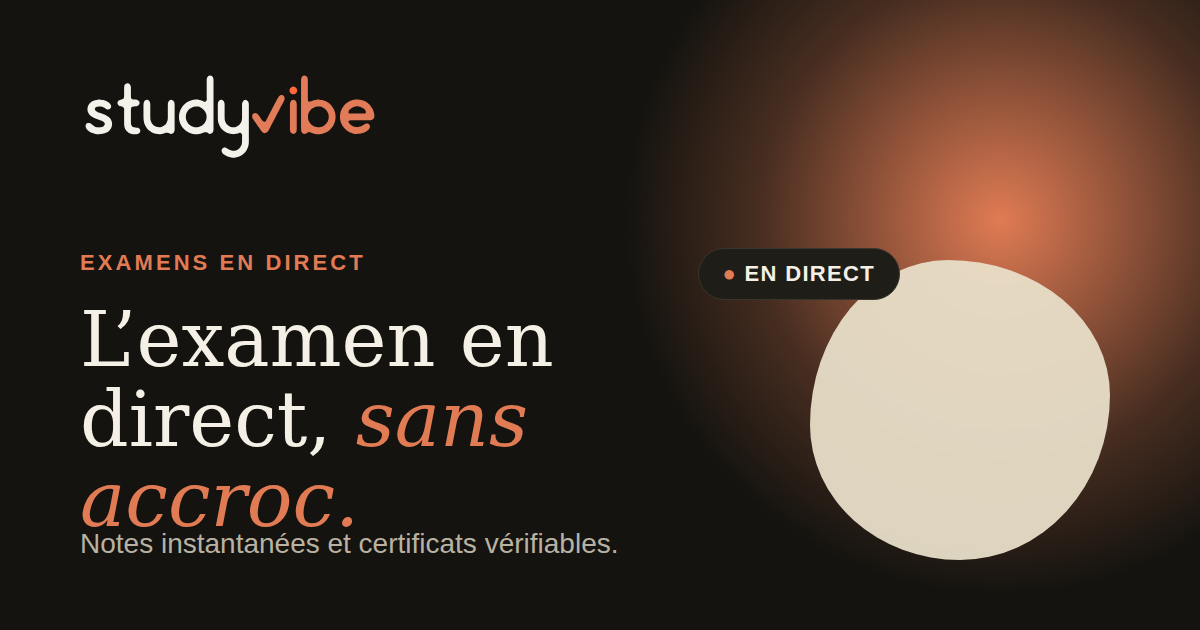
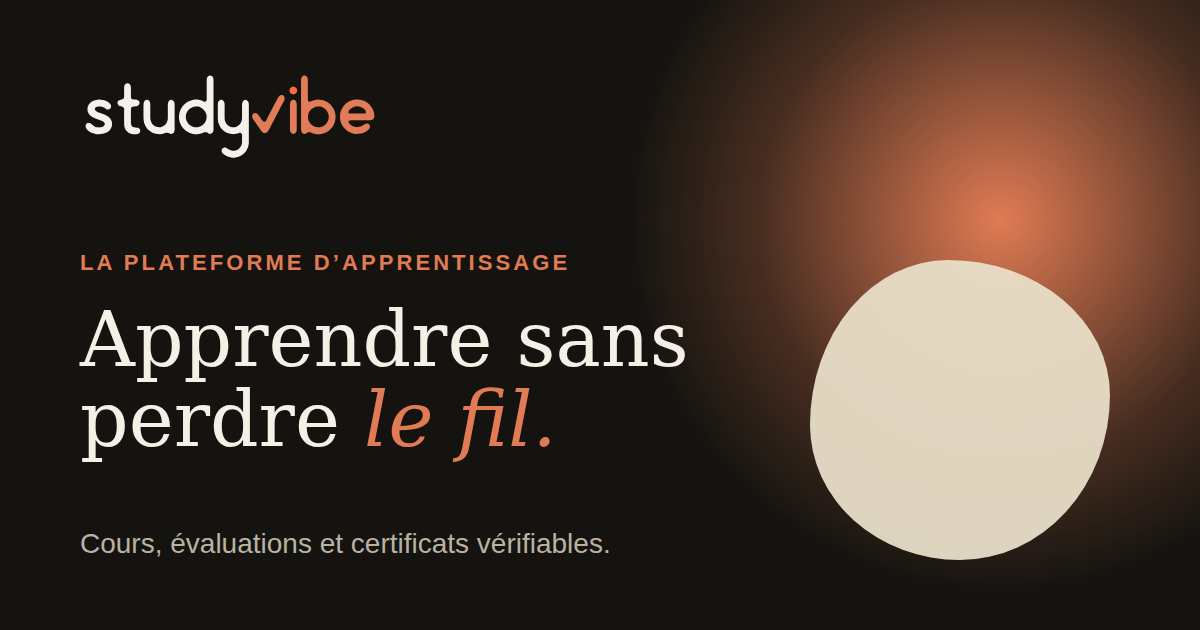
feat: landing page presents StudyVibe as a learning platform (courses, assignments, assessments, certificates) instead of a live-exam product: new headline, tagline, descriptions, share card and app manifest

Changed region(s): [[0.0617, 0.4825, 0.5858, 0.8746], [0.0617, 0.3921, 0.4933, 0.4524], [0.5858, 0.3921, 0.7708, 0.4825]]

diff --git a/index.php b/index.php
@@ -40,19 +40,19 @@ Analytics::captureSource();      // ?src=qr-campus-1 is remembered for the sessi
 Analytics::hit('view:landing');
 $T = [
 'fr' => [
- 'title' => 'StudyVibe — L’examen en direct, sans accroc',
- 'desc' => "Toute la promo démarre à la même seconde, les notes arrivent sans correction à la main, et chaque réussite devient un certificat vérifiable. Pour les universités et les centres de formation.",
- 'nav_eval' => 'Évaluations', 'nav_how' => 'Le parcours', 'nav_live' => 'Examen en direct', 'nav_who' => 'Pour qui',
+ 'title' => 'StudyVibe — Apprendre sans perdre le fil',
+ 'desc' => "Des cours clairs, des devoirs, des évaluations notées sans correction à la main, et un certificat vérifiable à la clé. Pour les universités et les centres de formation.",
+ 'nav_eval' => 'Évaluations', 'nav_how' => 'Le parcours', 'nav_live' => 'Évaluations en direct', 'nav_who' => 'Pour qui',
  'login' => 'Se connecter', 'join' => 'Créer un compte', 'theme' => 'Changer de thème', 'menu' => 'Menu',
- 'kicker' => 'Examens en direct pour l’enseignement supérieur et la formation',
- 'h1' => 'L’examen en direct, <em>sans accroc.</em>',
- 'lede' => 'Toute la promo démarre à la même seconde, les notes arrivent sans correction à la main, et chaque réussite devient un certificat vérifiable. Les cours sont là pour préparer la salle.',
- 'cta1' => 'Commencer gratuitement', 'cta2' => 'Voir un examen en direct',
+ 'kicker' => 'La plateforme d’apprentissage pour l’enseignement supérieur et la formation',
+ 'h1' => 'Apprendre sans <em>perdre le fil.</em>',
+ 'lede' => 'Des cours clairs, des devoirs, des évaluations notées sans correction à la main, et un certificat vérifiable à la clé. Tout est au même endroit, dans le navigateur.',
+ 'cta1' => 'Commencer gratuitement', 'cta2' => 'Voir comment ça marche',
  'note' => 'Testé avec 300 étudiants simulés connectés en même temps. Dans le navigateur, sans application à installer.',
  'room_live' => 'EN DIRECT', 'room_title' => 'INF242 · QCM de fin de module', 'room_count' => '47 connectés',
  'room_q_n' => 'Question 6 sur 20', 'room_q' => 'Quelle est la complexité d’une recherche dans un arbre binaire de recherche équilibré ?',
  'room_o' => ['O(1)', 'O(log n)', 'O(n)', 'O(n log n)'],
- 'study_alt' => 'Une étudiante révise sur son ordinateur', 'cert_alt' => 'Une étudiante consulte son certificat', 'end_alt' => 'Des diplômés qui célèbrent', 'end_p' => 'Créez votre compte, préparez la séance, et laissez la salle se remplir. Le reste se fait tout seul.',
+ 'study_alt' => 'Une étudiante révise sur son ordinateur', 'cert_alt' => 'Une étudiante consulte son certificat', 'end_alt' => 'Des diplômés qui célèbrent', 'end_p' => 'Créez votre compte, préparez votre cours, et laissez vos étudiants arriver. Le reste se fait tout seul.',
  'art_alt' => 'Un étudiant lit sur un canapé', 'live_alt' => 'Une étudiante suit une séance en direct sur son ordinateur',
  's1_k' => 'Le parcours', 's1_h' => 'Trois temps, un seul compte.',
  's1_p' => 'Un étudiant s’inscrit, apprend, se fait évaluer, puis reçoit une preuve qu’il peut montrer à n’importe qui.',
@@ -73,7 +73,7 @@ $T = [
  's4_k' => 'Certificats', 's4_h' => 'Un certificat qui se vérifie.', 's4_p' => 'Vous avez un code reçu avec un certificat ? Collez-le ici pour confirmer qu’il est authentique.',
  'v_ph' => 'Code du certificat', 'v_btn' => 'Vérifier',
  'cert_k' => 'Certificat de réussite', 'cert_h' => 'Module validé', 'cert_p' => 'Remis à un étudiant ayant validé l’ensemble des évaluations du module.', 'cert_c' => 'Code', 'cert_ex' => 'exemple',
- 'end_h' => 'Prêt à ouvrir <em>votre première séance ?</em>',
+ 'end_h' => 'Prêt à lancer <em>votre premier cours ?</em>',
  'foot_c' => 'Tous droits réservés.', 'foot_p' => 'Confidentialité',
  'a_login_h' => 'Bon retour', 'a_login_s' => 'Connectez-vous pour reprendre là où vous vous étiez arrêté.',
  'email' => 'Adresse e-mail', 'email_ph' => 'vous@exemple.com', 'pw' => 'Mot de passe', 'show' => 'Afficher', 'hide' => 'Masquer',
@@ -90,19 +90,19 @@ $T = [
  'auth_req' => 'Connectez-vous pour accéder à cette évaluation.', 'close' => 'Fermer',
 ],
 'en' => [
- 'title' => 'StudyVibe — Live exams that hold up',
- 'desc' => 'The whole cohort starts on the same second, grades arrive without marking by hand, and every pass becomes a certificate anyone can verify. For universities and training centres.',
- 'nav_eval' => 'Evaluations', 'nav_how' => 'How it works', 'nav_live' => 'Live exams', 'nav_who' => 'Who it’s for',
+ 'title' => 'StudyVibe — Learn without losing the thread',
+ 'desc' => 'Clear courses, assignments, assessments graded without marking by hand, and a certificate anyone can verify. For universities and training centres.',
+ 'nav_eval' => 'Evaluations', 'nav_how' => 'How it works', 'nav_live' => 'Live assessments', 'nav_who' => 'Who it’s for',
  'login' => 'Sign in', 'join' => 'Create account', 'theme' => 'Toggle theme', 'menu' => 'Menu',
- 'kicker' => 'Live exams for higher education and training',
- 'h1' => 'Live exams <em>that hold up.</em>',
- 'lede' => 'The whole cohort starts on the same second, grades arrive without marking by hand, and every pass becomes a certificate anyone can verify. The courses are there to prepare the room.',
- 'cta1' => 'Get started free', 'cta2' => 'See a live exam',
+ 'kicker' => 'The learning platform for higher education and training',
+ 'h1' => 'Learn without <em>losing the thread.</em>',
+ 'lede' => 'Clear courses, assignments, assessments graded without marking by hand, and a certificate anyone can verify. Everything in one place, in the browser.',
+ 'cta1' => 'Get started free', 'cta2' => 'See how it works',
  'note' => 'Tested with 300 simulated students connected at the same time. In the browser, nothing to install.',
  'room_live' => 'LIVE', 'room_title' => 'INF242 · End-of-module quiz', 'room_count' => '47 connected',
  'room_q_n' => 'Question 6 of 20', 'room_q' => 'What is the time complexity of a lookup in a balanced binary search tree?',
  'room_o' => ['O(1)', 'O(log n)', 'O(n)', 'O(n log n)'],
- 'study_alt' => 'A student revising at her computer', 'cert_alt' => 'A student looking at her certificate', 'end_alt' => 'Graduates celebrating', 'end_p' => 'Create your account, set up the session, and let the room fill up. The rest takes care of itself.',
+ 'study_alt' => 'A student revising at her computer', 'cert_alt' => 'A student looking at her certificate', 'end_alt' => 'Graduates celebrating', 'end_p' => 'Create your account, set up your course, and let your students arrive. The rest takes care of itself.',
  'art_alt' => 'A student reading on a couch', 'live_alt' => 'A student following a live session on a laptop',
  's1_k' => 'How it works', 's1_h' => 'Three moments, one account.',
  's1_p' => 'A student signs up, learns, gets assessed, then walks away with proof they can show anyone.',
@@ -123,7 +123,7 @@ $T = [
  's4_k' => 'Certificates', 's4_h' => 'A certificate you can check.', 's4_p' => 'Got a code with a certificate? Paste it here to confirm it is genuine.',
  'v_ph' => 'Certificate code', 'v_btn' => 'Verify',
  'cert_k' => 'Certificate of achievement', 'cert_h' => 'Module completed', 'cert_p' => 'Awarded to a student who passed every assessment in the module.', 'cert_c' => 'Code', 'cert_ex' => 'example',
- 'end_h' => 'Ready to open <em>your first session?</em>',
+ 'end_h' => 'Ready to launch <em>your first course?</em>',
  'foot_c' => 'All rights reserved.', 'foot_p' => 'Privacy',
  'a_login_h' => 'Welcome back', 'a_login_s' => 'Sign in to pick up where you left off.',
  'email' => 'Email address', 'email_ph' => 'you@example.com', 'pw' => 'Password', 'show' => 'Show', 'hide' => 'Hide',
@@ -196,7 +196,7 @@ $e = fn(string $k): string => htmlspecialchars((string)$T[$k], ENT_QUOTES, 'UTF-
       <p class="lede"><?= $e('lede') ?></p>
       <div class="hero-cta">
         <button class="btn btn-primary btn-lg" type="button" data-open-auth="signup"><?= $e('cta1') ?></button>
-        <a class="btn btn-ghost btn-lg" href="#direct"><?= $e('cta2') ?></a>
+        <a class="btn btn-ghost btn-lg" href="#parcours"><?= $e('cta2') ?></a>
       </div>
       <p class="hero-note"><?= $e('note') ?></p>
     </div>
